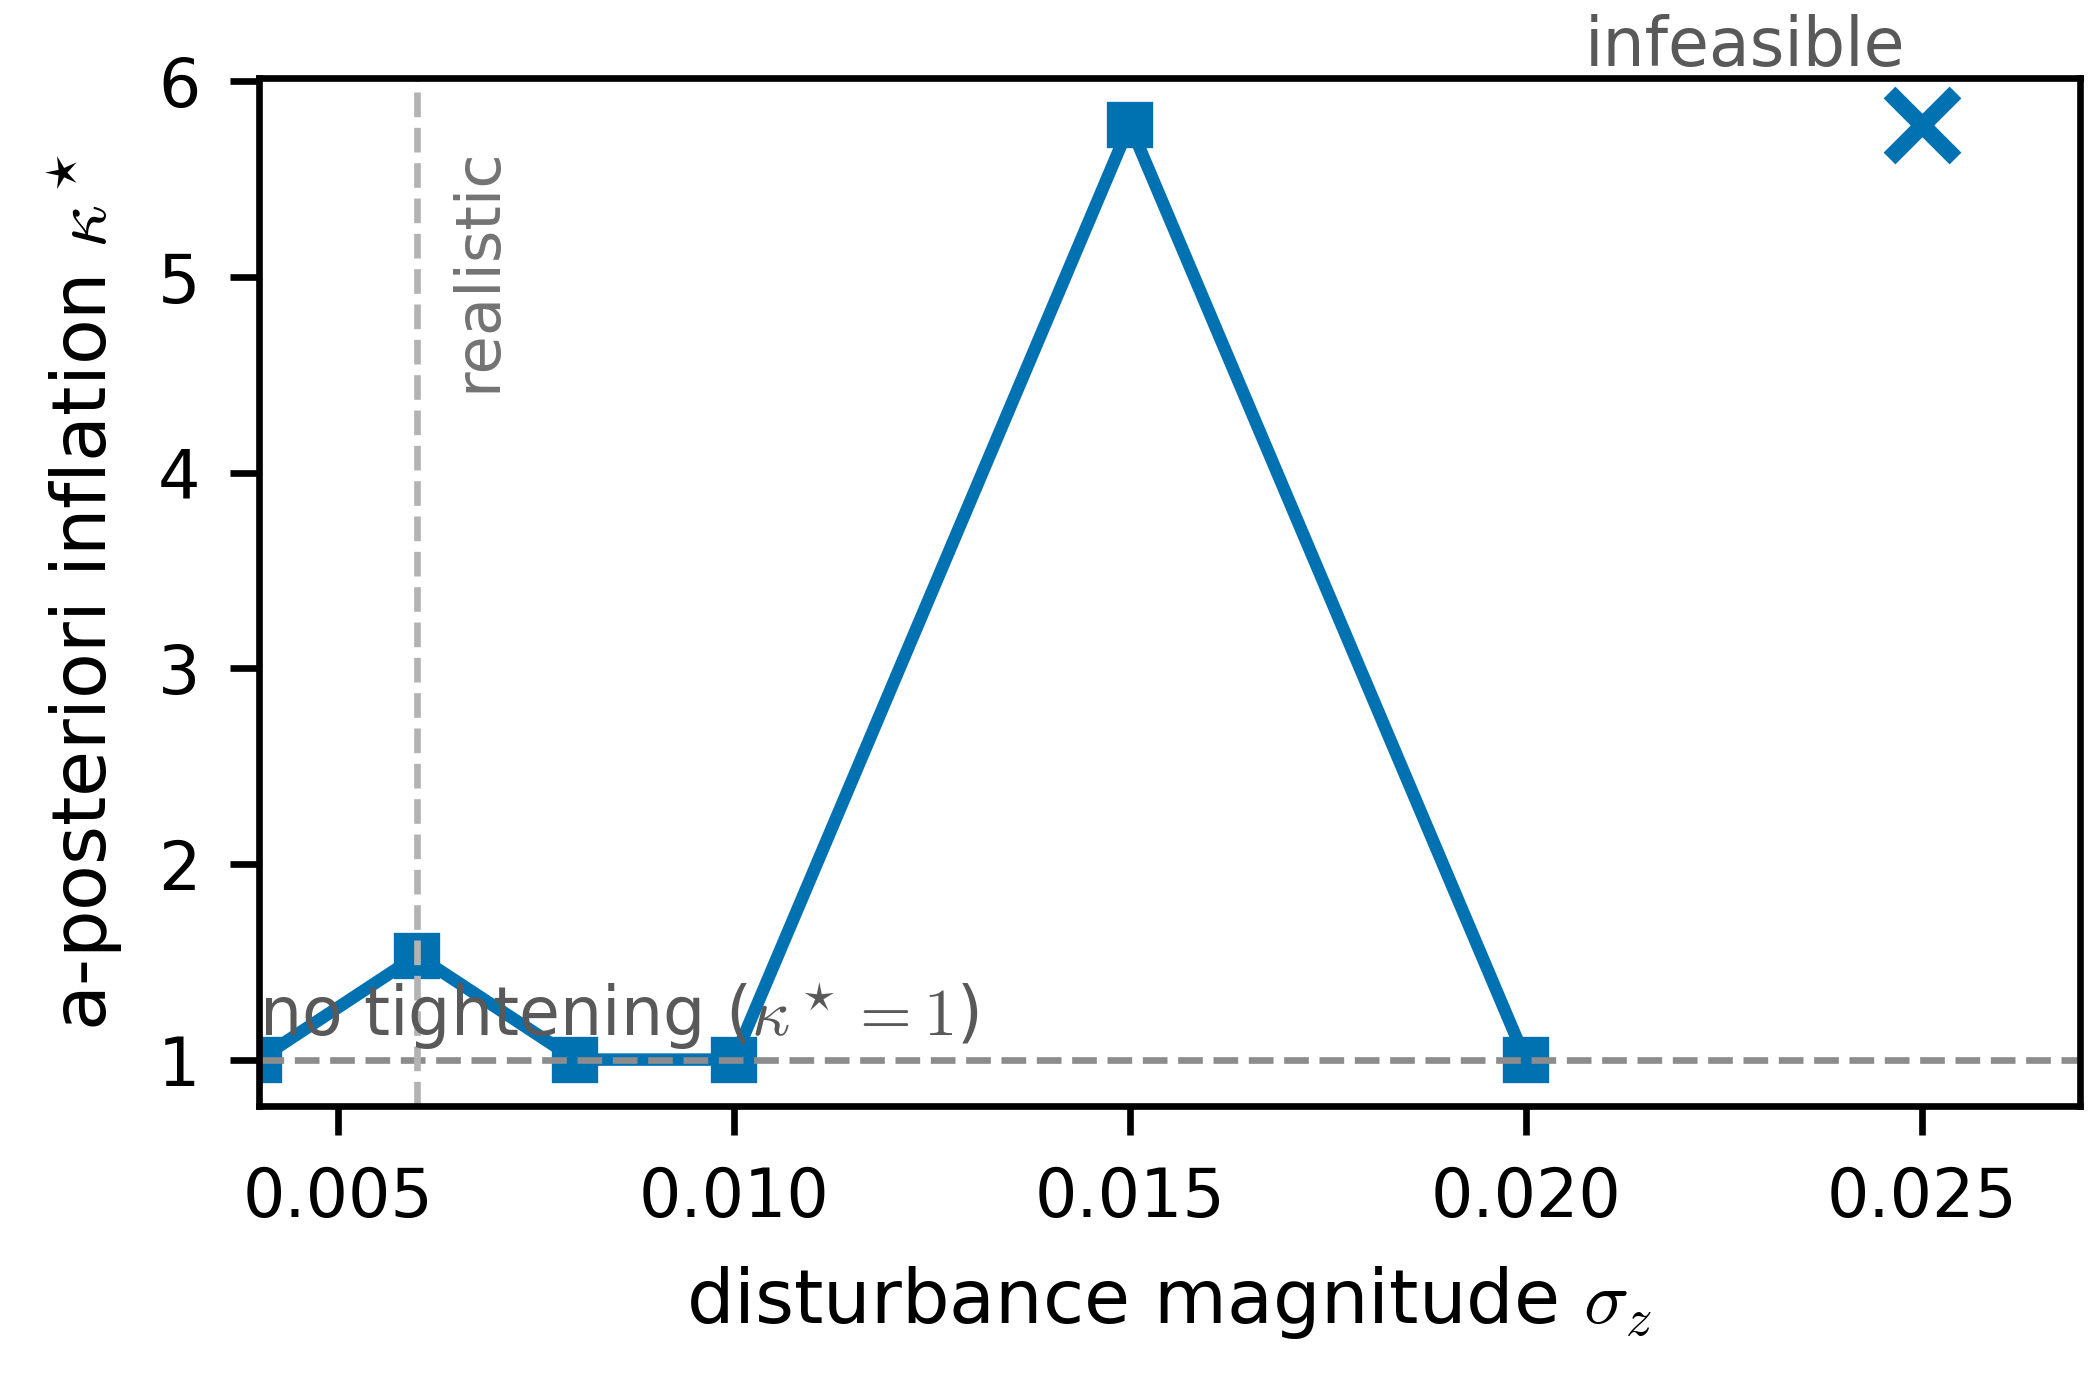
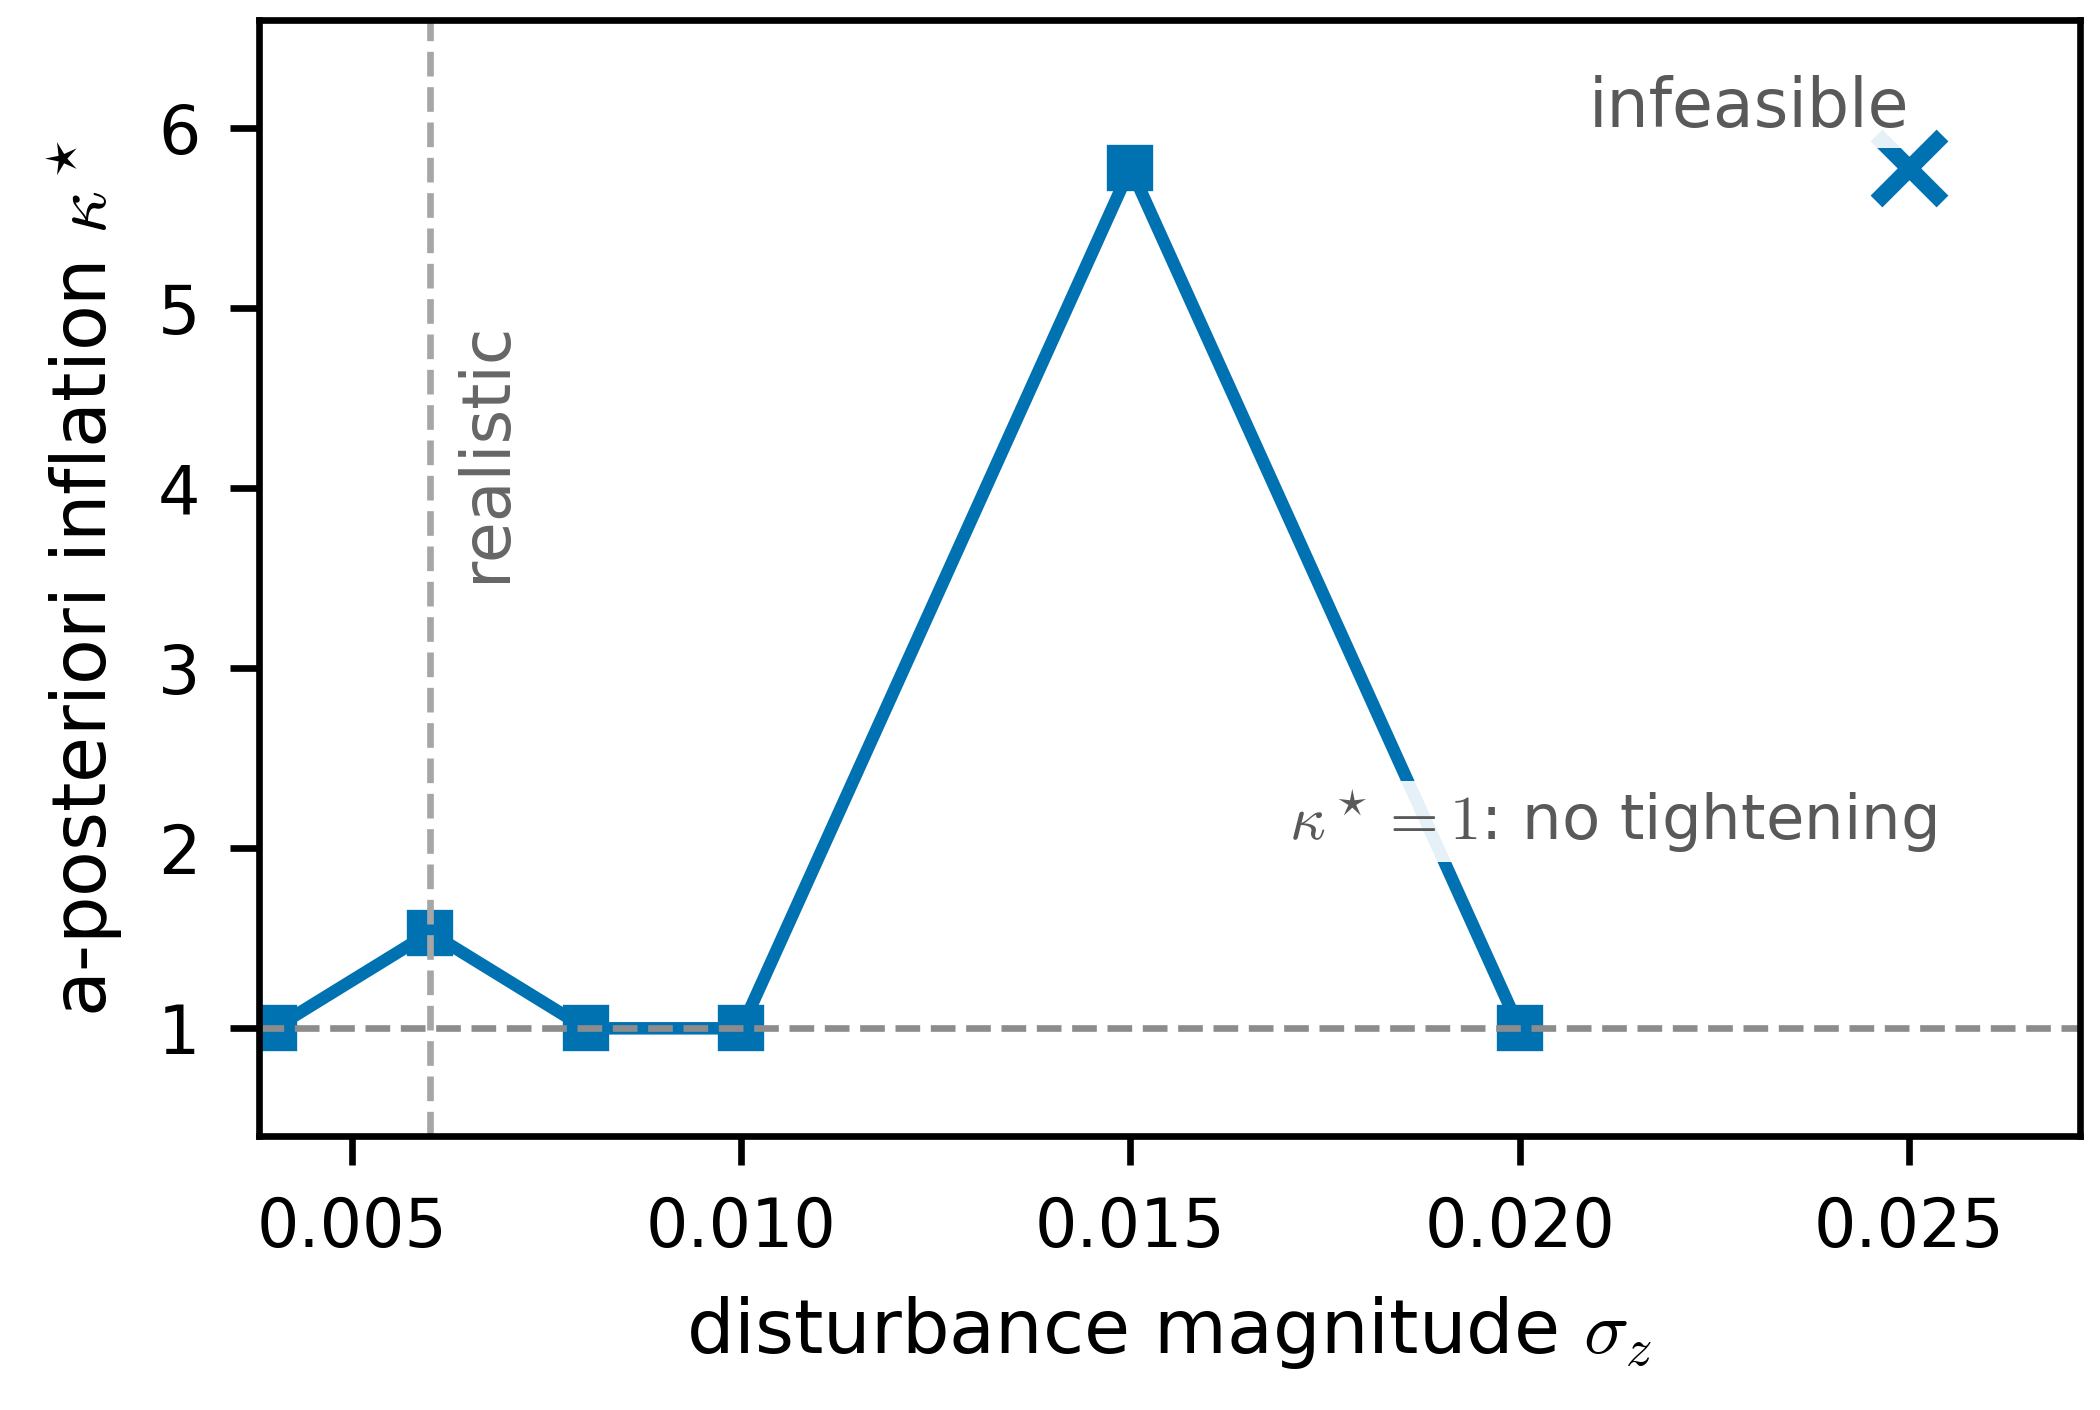
26-0876: collision-free figure labels (opaque backings, widened F1 gaps)

diff --git a/scripts/paper2_figures/make_ieee_figures.py b/scripts/paper2_figures/make_ieee_figures.py
@@ -1,16 +1,16 @@
-"""IEEE-sized regenerations of F1/F3/F7 for TCST 26-0876 resubmission.
-Native sizes: F1 7.16in (two-column span), F3/F7 3.5in (single column).
-Fonts >=8pt at final size, 600 dpi, no in-figure titles (captions carry them)."""
+"""IEEE-sized F1/F3/F7 for TCST 26-0876 (v2: collision-free placement).
+Native widths: F1 7.16in (2-col figure*), F3/F7 3.5in (1-col). >=8pt at final size, 600 dpi,
+opaque label backgrounds, generous diagram gaps, no in-figure titles (captions carry them)."""
 import json, matplotlib
 matplotlib.use("Agg")
 import matplotlib.pyplot as plt
 from matplotlib.patches import FancyArrowPatch, FancyBboxPatch
 
 plt.rcParams.update({"font.size": 8, "axes.labelsize": 9, "xtick.labelsize": 8,
-                     "ytick.labelsize": 8, "legend.fontsize": 8, "mathtext.fontset": "cm"})
-BLUE, ORANGE, GREY, INK = "#0072B2", "#D55E00", "#9aa0a6", "#222222"
+                     "ytick.labelsize": 8, "legend.fontsize": 7.5, "mathtext.fontset": "cm"})
+BLUE, ORANGE, GREY, INK = "#0072B2", "#D55E00", "#8a8f94", "#222222"
+WBB = dict(fc="white", ec="none", alpha=0.9, pad=0.8)   # opaque label backing
 DATA = json.load(open("/tmp/IPIS_fix/docs/module3/paper/evidence/regime_map.json"))
-
 STYLE = {
     "oracle":      dict(color="#000000", marker="o", ls="--", label="oracle"),
     "cqr+apost":   dict(color=BLUE,      marker="s", ls="-",  label="CQR + a-posteriori (proposed)"),
@@ -18,96 +18,90 @@ STYLE = {
     "naive-adapt": dict(color=ORANGE,    marker="v", ls=":",  label="naive adaptive"),
 }
 ORDER = ["oracle", "cqr+apost", "naive-fixed", "naive-adapt"]
-
 def series(m, key):
     xs, ys = [], []
     for s in sorted(DATA["regime"], key=float):
         c = DATA["regime"][s][m]
-        if c["feasible"] and c[key] is not None:
-            xs.append(float(s)); ys.append(c[key])
+        if c["feasible"] and c[key] is not None: xs.append(float(s)); ys.append(c[key])
     return xs, ys
-
 def infeas(m):
     return [float(s) for s in sorted(DATA["regime"], key=float) if not DATA["regime"][s][m]["feasible"]]
 
-# ---------- F3: violation vs sigma (3.5in single column) ----------
+# ---------- F3 ----------
 alpha = DATA["metadata"]["alpha"]; band = DATA["metadata"]["violation_mc_band"]
 realistic = DATA["metadata"]["realistic_sigma_z"]
-fig, ax = plt.subplots(figsize=(3.5, 2.75))
+fig, ax = plt.subplots(figsize=(3.5, 2.8))
 for m in ORDER:
     xs, ys = series(m, "realized_violation")
     ax.plot(xs, ys, lw=1.5, ms=4.5, **STYLE[m])
-    ax.fill_between(xs, [y-band for y in ys], [y+band for y in ys],
-                    color=STYLE[m]["color"], alpha=0.10, lw=0)
-    for s in infeas(m):
-        ax.plot(s, alpha, marker="x", color=STYLE[m]["color"], ms=7, mew=1.8)
+    ax.fill_between(xs, [y-band for y in ys], [y+band for y in ys], color=STYLE[m]["color"], alpha=0.10, lw=0)
+    for s in infeas(m): ax.plot(s, alpha, marker="x", color=STYLE[m]["color"], ms=7, mew=1.8)
 ax.axhline(alpha, color="0.35", lw=0.9)
-ax.text(0.0245, alpha+0.012, r"target $\alpha=0.10$", fontsize=8, color="0.25", ha="right")
-ax.axvline(realistic, color="0.7", lw=0.8, ls="--")
-ax.text(realistic+0.0004, 0.545, "realistic", rotation=90, va="top", fontsize=7.5, color="0.45")
+ax.axvline(realistic, color="0.65", lw=0.8, ls="--")
+# target label: far left, above the 0.10 line, in clear space (oracle/cqr sit below at ~0.07)
+ax.text(0.00425, 0.128, r"target $\alpha=0.10$", fontsize=8, color="0.25", ha="left", va="center", bbox=WBB)
+# realistic label: mid gap between naive-fixed (0.19) and naive-adapt (0.45), just right of the line
+ax.text(0.00635, 0.31, "realistic", rotation=90, fontsize=8, color="0.4", ha="left", va="center", bbox=WBB)
 ax.set_xlabel(r"disturbance magnitude $\sigma_z$")
 ax.set_ylabel(r"realized violation $\hat v(u^\star)$")
-ax.set_ylim(0, 0.56); ax.set_xlim(0.004, 0.027)
-ax.legend(loc="center right", framealpha=0.95, handlelength=2.2, borderpad=0.4)
+ax.set_ylim(0, 0.57); ax.set_xlim(0.0038, 0.0272)
+leg = ax.legend(loc="center", bbox_to_anchor=(0.60, 0.45), framealpha=0.95, handlelength=2.0, borderpad=0.4)
+leg.get_frame().set_edgecolor("0.7")
 fig.tight_layout(pad=0.3)
 fig.savefig("figures/F3_violation_vs_sigma.png", dpi=600); plt.close(fig)
 
-# ---------- F7: kappa vs sigma (3.5in single column) ----------
-xs, ys = series("cqr+apost", "kappa"); inf7 = infeas("cqr+apost")
-fig, ax = plt.subplots(figsize=(3.5, 2.3))
+# ---------- F7 ----------
+xs, ys = series("cqr+apost", "kappa"); inf7 = infeas("cqr+apost"); top = max(ys)
+fig, ax = plt.subplots(figsize=(3.5, 2.35))
 ax.plot(xs, ys, color=BLUE, marker="s", lw=1.5, ms=4.5, label="CQR + a-posteriori")
 ax.axhline(1.0, color="0.55", lw=0.8, ls="--")
-ax.text(xs[0], 1.12, r"no tightening ($\kappa^\star=1$)", fontsize=8, color="0.35")
-top = max(ys)
+ax.axvline(realistic, color="0.65", lw=0.8, ls="--")
+# kappa=1 label: right end of the dashed line, in clear space between the 0.020 marker and the 0.025 x
+ax.text(0.0212, 2.15, r"$\kappa^\star=1$: no tightening", fontsize=7.5, color="0.35", ha="center", va="center", bbox=WBB)
+# realistic label: empty upper-left region (line is at 1.5 near x=0.006, spike is far right)
+ax.text(0.0063, 4.2, "realistic", rotation=90, fontsize=8, color="0.4", ha="left", va="center", bbox=WBB)
 for s in inf7:
     ax.plot(s, top, marker="x", color=BLUE, ms=8, mew=2)
-    ax.annotate("infeasible", xy=(s, top), fontsize=8, color="0.35",
-                xytext=(-2, 7), textcoords="offset points", ha="right")
-ax.axvline(realistic, color="0.7", lw=0.8, ls="--")
-ax.text(realistic+0.0004, top*0.98, "realistic", rotation=90, va="top", fontsize=7.5, color="0.45")
+    ax.text(s, top+0.15, "infeasible", fontsize=8, color="0.35", ha="right", va="bottom", bbox=WBB)
 ax.set_xlabel(r"disturbance magnitude $\sigma_z$")
 ax.set_ylabel(r"a-posteriori inflation $\kappa^\star$")
-ax.set_xlim(0.004, 0.027)
+ax.set_xlim(0.0038, 0.0272); ax.set_ylim(0.4, 6.6)
 fig.tight_layout(pad=0.3)
 fig.savefig("figures/F7_kappa_vs_sigma.png", dpi=600); plt.close(fig)
 
-# ---------- F1: RTO loop (7.16in double-column span) ----------
+# ---------- F1 (2-col span, roomy gaps, opaque arrow labels) ----------
 def box(ax, xy, w, h, text, *, fc="white", ec=INK, fs=9, lw=1.3, z=2):
     x, y = xy
-    ax.add_patch(FancyBboxPatch((x-w/2, y-h/2), w, h,
-                 boxstyle="round,pad=0.02,rounding_size=0.12", fc=fc, ec=ec, lw=lw, zorder=z))
+    ax.add_patch(FancyBboxPatch((x-w/2, y-h/2), w, h, boxstyle="round,pad=0.02,rounding_size=0.12",
+                 fc=fc, ec=ec, lw=lw, zorder=z))
     ax.text(x, y, text, ha="center", va="center", fontsize=fs, zorder=z+1, color=INK)
-
 def arrow(ax, p0, p1, *, color=INK, ls="-", lw=1.5, z=1, rad=None):
     cs = f"arc3,rad={rad}" if rad is not None else "arc3,rad=0"
-    ax.add_patch(FancyArrowPatch(p0, p1, arrowstyle="-|>", connectionstyle=cs,
-                 mutation_scale=13, lw=lw, color=color, linestyle=ls, shrinkA=2, shrinkB=2, zorder=z))
-
-fig, ax = plt.subplots(figsize=(7.16, 3.55))
-ax.set_xlim(0, 13.5); ax.set_ylim(0, 7.5); ax.axis("off")
-box(ax, (1.9, 5.4), 3.3, 1.0, r"Nominal model  $\hat{g}(u)$", fs=9)
-box(ax, (1.9, 2.8), 3.3, 1.3, "Conformal back-off  $C(u)$\n(fixed / normalized / CQR)", ec=BLUE, fs=9)
-ax.text(1.9, 1.95, r"$\uparrow$ calibration data $\{(u_i,z_i,g_i)\}_{i=1}^{n}$",
-        ha="center", va="top", fontsize=8, color=GREY)
-box(ax, (5.7, 4.1), 3.1, 2.1, "RTO optimizer\n\n" r"$\max_u\ \pi(u)$" "\n" r"s.t. $\hat{g}(u){+}C(u)\leq\bar{g}$", lw=1.7, fs=9)
-box(ax, (9.4, 4.1), 3.4, 2.1, "Debutanizer twin\n(DWSIM, Peng-Robinson)\n9 stages, binary nC4/nC6", fs=9)
-box(ax, (12.45, 4.1), 1.6, 1.1, "spec\n" r"$x_B\leq\bar{g}$", ec=BLUE, fs=9)
-arrow(ax, (3.55, 5.4), (4.2, 4.65))
-arrow(ax, (3.55, 2.9), (4.2, 3.55), color=BLUE)
-arrow(ax, (7.25, 4.1), (7.7, 4.1))
-ax.text(7.45, 4.55, r"$u^\star=(R,D)$", ha="center", va="bottom", fontsize=9)
-arrow(ax, (9.4, 6.7), (9.4, 5.15), color=ORANGE)
-ax.text(9.4, 6.85, r"$z\sim\mathcal{F}_\sigma$ (unmeasured feed composition)",
-        ha="center", va="bottom", fontsize=9, color=ORANGE)
-arrow(ax, (11.1, 4.1), (11.65, 4.1), color=BLUE)
-ax.text(11.37, 4.5, r"$x_B$", ha="center", va="bottom", fontsize=9, color=BLUE)
-ax.text(11.37, 3.7, "unmeasured", ha="center", va="top", fontsize=7.5, color=GREY, style="italic")
-arrow(ax, (9.4, 3.05), (5.7, 3.05), color=GREY, ls="--", lw=1.2, rad=0.25)
-ax.text(7.55, 1.55, "closed-loop soft-sensor feedback (future work)",
-        ha="center", fontsize=8, color=GREY, style="italic")
+    ax.add_patch(FancyArrowPatch(p0, p1, arrowstyle="-|>", connectionstyle=cs, mutation_scale=13,
+                 lw=lw, color=color, linestyle=ls, shrinkA=2, shrinkB=2, zorder=z))
+fig, ax = plt.subplots(figsize=(7.16, 3.6))
+ax.set_xlim(0, 16.5); ax.set_ylim(0, 8); ax.axis("off")
+box(ax, (2.1, 6.0), 3.6, 1.0, r"Nominal model  $\hat{g}(u)$", fs=9)
+box(ax, (2.1, 3.0), 3.6, 1.35, "Conformal back-off  $C(u)$\n(fixed / normalized / CQR)", ec=BLUE, fs=9)
+ax.text(2.1, 2.1, r"calibration data $\{(u_i,z_i,g_i)\}_{i=1}^{n}$", ha="center", va="top", fontsize=8, color=GREY)
+box(ax, (7.0, 4.5), 3.2, 2.2, "RTO optimizer\n\n" r"$\max_u\ \pi(u)$" "\n" r"s.t. $\hat{g}(u){+}C(u)\leq\bar{g}$", lw=1.7, fs=9)
+box(ax, (11.9, 4.5), 3.6, 2.2, "Debutanizer twin\n(DWSIM, Peng-Robinson)\n9 stages, binary nC4/nC6", fs=9)
+box(ax, (15.4, 4.5), 1.7, 1.15, "spec\n" r"$x_B\leq\bar{g}$", ec=BLUE, fs=9)
+arrow(ax, (3.9, 6.0), (5.1, 5.05))
+arrow(ax, (3.9, 3.1), (5.1, 3.95), color=BLUE)
+arrow(ax, (8.6, 4.5), (10.1, 4.5))
+ax.text(9.35, 4.95, r"$u^\star=(R,D)$", ha="center", va="center", fontsize=9, bbox=WBB)
+arrow(ax, (11.9, 7.05), (11.9, 5.6), color=ORANGE)
+ax.text(11.9, 7.2, r"$z\sim\mathcal{F}_\sigma$  (unmeasured feed composition)", ha="center", va="bottom", fontsize=9, color=ORANGE)
+arrow(ax, (13.7, 4.5), (14.55, 4.5), color=BLUE)
+ax.text(14.12, 4.95, r"$x_B$", ha="center", va="center", fontsize=9, color=BLUE, bbox=WBB)
+# feedback routed well below the boxes, label in clear space beneath
+arrow(ax, (11.9, 3.15), (7.0, 3.15), color=GREY, ls="--", lw=1.2, rad=0.32)
+ax.text(9.45, 1.75, "closed-loop soft-sensor feedback (future work)", ha="center", va="center",
+        fontsize=8, color=GREY, style="italic", bbox=WBB)
 fig.tight_layout(pad=0.2)
 fig.savefig("figures/F1_rto_loop.png", dpi=600); plt.close(fig)
 
 from PIL import Image
 for f in ["F1_rto_loop.png", "F3_violation_vs_sigma.png", "F7_kappa_vs_sigma.png"]:
-    im = Image.open(f"figures/{f}"); print(f, im.size, f"{im.size[0]/600:.2f}in @600dpi")
+    im = Image.open(f"figures/{f}"); print(f, im.size, f"{im.size[0]/600:.2f}in")